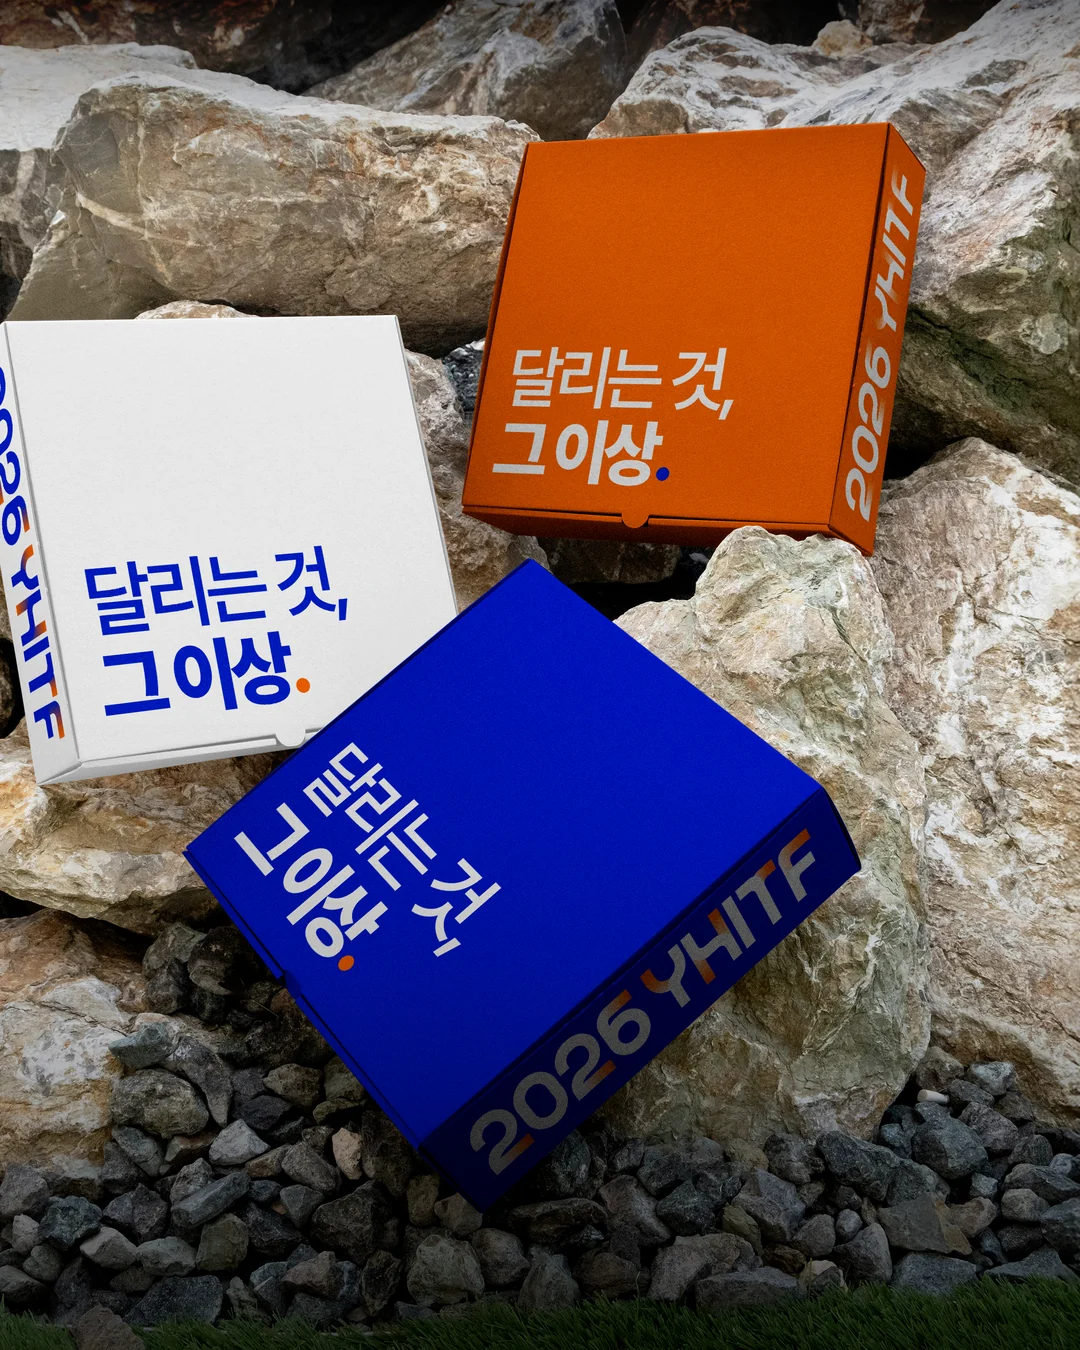
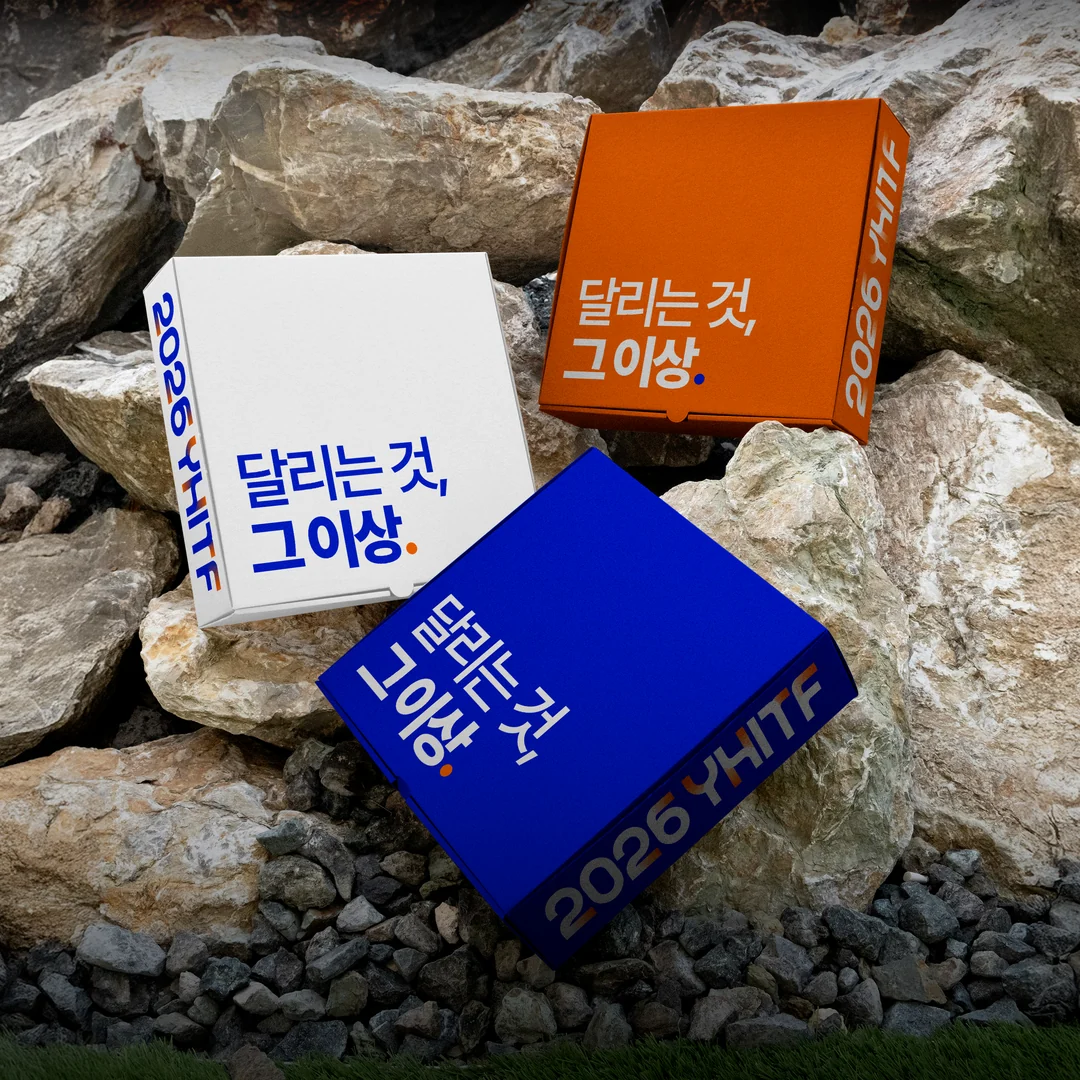
Sync goods assets

diff --git a/medal/v2/page.html b/medal/v2/page.html
@@ -235,7 +235,7 @@ html,body{margin:0;background:var(--bg);color:var(--fg);font-family:"Pretendard"
 #yh-goods .cta{position:relative;margin-top:clamp(40px,6vh,64px);border-radius:24px;overflow:hidden;background:#141416;isolation:isolate}
 #yh-goods .cta img{display:block;width:100%;height:auto;aspect-ratio:3/2;object-fit:cover;transform:scale(1.06);transition:transform 1.6s cubic-bezier(.22,.8,.16,1)}
 #yh-goods .cta.in img{transform:scale(1)}
-@media (max-width:720px){#yh-goods .cta{border-radius:18px}#yh-goods .cta img{aspect-ratio:4/5}}
+@media (max-width:720px){#yh-goods .cta{border-radius:18px}#yh-goods .cta img{aspect-ratio:1/1}}
 @media (prefers-reduced-motion:reduce){#yh-goods .cta img{transform:none;transition:none}}
 #yh-goods .note{margin:clamp(48px,8vh,72px) 0 0;font-size:12px;color:rgba(255,255,255,.42);text-align:center}
 @media (max-width:720px){#yh-goods .kit{grid-template-columns:1fr;gap:40px}#yh-goods .specs .art{height:84px}#yh-goods .specs .no{display:block;margin-bottom:6px}#yh-goods .specs .only{margin-left:0}#yh-goods .row{height:210px;gap:8px}#yh-goods .row.r2{height:auto;flex-direction:column}#yh-goods .sub{display:flex;gap:8px;height:200px}#yh-goods .it.on{flex-grow:4.2}#yh-goods .r1 .it.on{flex-grow:4.2}#yh-goods .it:not(.on) .cap{opacity:0}#yh-goods .it .cap{transition:opacity .5s}#yh-goods .row:not(.act) .it .nm{display:none}#yh-goods .it .cap{gap:8px}}
@@ -452,7 +452,7 @@ function q(){if(!t)t=requestAnimationFrame(upd)}addEventListener('scroll',q,{pas
    </div>
   </div>
   <div class="cta">
-   <picture><source media="(max-width:720px)" srcset="cta_box_m.webp" width="1080" height="1350"><img src="cta_box.webp" alt="바위 위에 놓인 '달리는 것, 그 이상.' 문구의 2026 YHITF 키트 박스 세 개, 흰색·오렌지·블루" width="2200" height="1467" loading="lazy"></picture>
+   <picture><source media="(max-width:720px)" srcset="cta_box_m.webp" width="1080" height="1080"><img src="cta_box.webp" alt="바위 위에 놓인 '달리는 것, 그 이상.' 문구의 2026 YHITF 키트 박스 세 개, 흰색·오렌지·블루" width="2200" height="1467" loading="lazy"></picture>
   </div>
   <p class="note">이미지는 연출된 것으로 실제 제품과 차이가 있을 수 있습니다.</p>
  </div>
